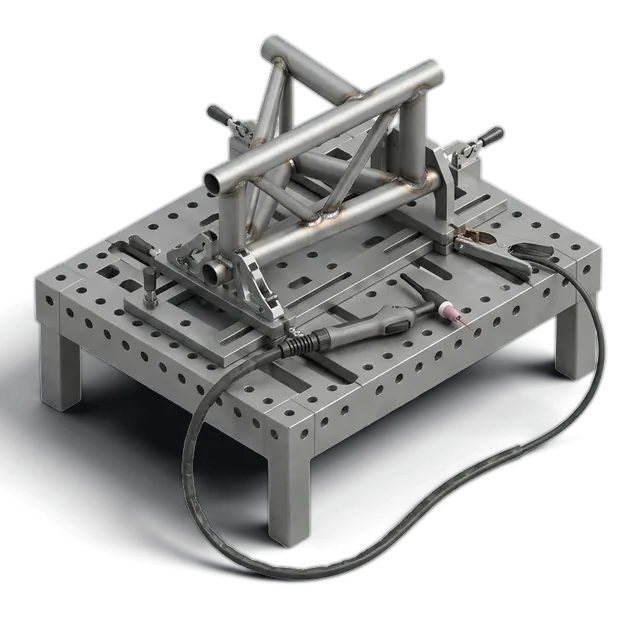
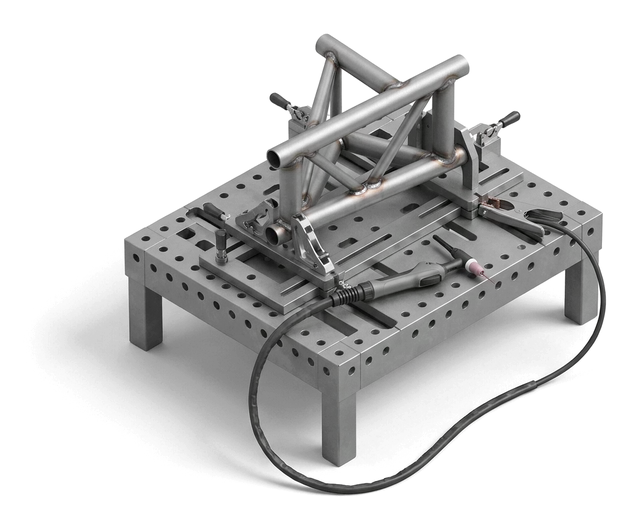
7б: правки /kp и /constructions — колонки строки КП, картинки на белом без плашек, форма чертежа как на главной

diff --git a/components/constructions/stages.ts b/components/constructions/stages.ts
@@ -17,34 +17,34 @@ export const stages: Stage[] = [
     title: "Расчёт и КМД",
     text: "Проверяем чертежи КМ, считаем массу и цену за 2 рабочих дня. После аванса делаем КМД в Tekla Structures и согласуем с вашим проектировщиком.",
     term: "КМД — 3–5 рабочих дней",
-    image: { src: "/pages/kmd.webp", width: 1200, height: 896, variant: 800 },
+    image: { src: "/pages/kmd.webp", width: 1079, height: 765, variant: 800 },
   },
   {
     number: "02",
     title: "Заготовка",
     text: "Ленточнопильная резка балки и швеллера до 1 000 мм, плазменный раскрой листа до 30 мм на ЧПУ, сверловка отверстий на линии без разметки.",
     term: "Металл — со своего склада",
-    image: { src: "/equipment/plasma.webp", width: 1128, height: 838, variant: 640 },
+    image: { src: "/equipment/plasma.webp", width: 1141, height: 841, variant: 640 },
   },
   {
     number: "03",
     title: "Сборка и сварка",
     text: "Собираем узлы в кондукторах, сварка полуавтоматом в среде CO₂. Сварщики аттестованы НАКС, швы проверяем визуально и ультразвуком.",
     term: "ГОСТ 14771‑76, СП 70.13330",
-    image: { src: "/equipment/welding.webp", width: 884, height: 857, variant: 640 },
+    image: { src: "/equipment/welding.webp", width: 1045, height: 866, variant: 640 },
   },
   {
     number: "04",
     title: "Окраска",
     text: "Очистка до степени St3, грунт ГФ‑021 или эмаль ПФ‑115 в цехе при +18 °C. Горячий цинк — у партнёра в Екатеринбурге, срок +5 дней.",
     term: "Толщина покрытия — по паспорту",
-    image: { src: "/equipment/paint.webp", width: 1096, height: 838, variant: 640 },
+    image: { src: "/equipment/paint.webp", width: 1172, height: 829, variant: 640 },
   },
   {
     number: "05",
     title: "Упаковка и отгрузка",
     text: "Маркируем каждую марку по КМД, пакуем на деревянные прокладки и стягиваем лентой. Грузим мостовым краном 10 т, доставка своими длинномерами.",
     term: "Паспорт и сертификаты — с машиной",
-    image: { src: "/pages/pack.webp", width: 1090, height: 842, variant: 800 },
+    image: { src: "/pages/pack.webp", width: 1196, height: 845, variant: 800 },
   },
 ];

diff --git a/components/constructions/DrawingForm.tsx b/components/constructions/DrawingForm.tsx
@@ -14,7 +14,7 @@ type Errors = Partial<Record<"name" | "phone" | "description" | "file", string>>
 const phoneOk = (v: string) => v.replace(/\D/g, "").length >= 10;
 
 /**
- * «Расчёт по чертежу» (паспорт §4): контакты, что за конструкция, файл обязателен.
+ * «Расчёт по чертежу» (паспорт §4): порядок как в форме главной — контакты → «Что нужно» → файл → согласие. Файл обязателен.
  * Отправка — через uploadDrawing в lib/api.ts.
  */
 export function DrawingForm() {
@@ -79,6 +79,19 @@ export function DrawingForm() {
 
   return (
     <form className={s.form} onSubmit={onSubmit} noValidate aria-busy={sending}>
+      <TextField label="Имя" name="name" autoComplete="name" error={errors.name} required />
+      <TextField label="Телефон" name="phone" type="tel" inputMode="tel" autoComplete="tel" placeholder="+7" error={errors.phone} required />
+      <TextField label="Компания или ИНН" name="company" autoComplete="organization" />
+      <TextField label="Почта" name="email" type="email" autoComplete="email" placeholder={`Пришлём расчёт в${NB}PDF`} />
+      <TextArea
+        className={s.wide}
+        label="Что нужно"
+        name="description"
+        rows={3}
+        placeholder={"Фермы ФС‑18, 12 шт, грунт ГФ‑021\nКаркас склада 24×48 м, монтаж свой"}
+        error={errors.description}
+        required
+      />
       <FileDrop
         className={s.wide}
         file={file}
@@ -91,19 +104,6 @@ export function DrawingForm() {
         maxMb={50}
         error={errors.file}
       />
-      <TextArea
-        className={s.wide}
-        label="Что нужно"
-        name="description"
-        rows={3}
-        placeholder={"Фермы ФС‑18, 12 шт, грунт ГФ‑021\nКаркас склада 24×48 м, монтаж свой"}
-        error={errors.description}
-        required
-      />
-      <TextField label="Имя" name="name" autoComplete="name" error={errors.name} required />
-      <TextField label="Телефон" name="phone" type="tel" inputMode="tel" autoComplete="tel" placeholder="+7" error={errors.phone} required />
-      <TextField label="Компания или ИНН" name="company" autoComplete="organization" />
-      <TextField label="Почта" name="email" type="email" autoComplete="email" placeholder={`Пришлём расчёт в${NB}PDF`} />
       <ConsentCheckbox name="consent" className={s.wide} />
       <div className={s.submit}>
         <Button type="submit" disabled={sending}>

diff --git a/components/constructions/Constructions.module.css b/components/constructions/Constructions.module.css
@@ -1,21 +1,19 @@
 /*
  * Металлоконструкции (чат 7). Шапка как у каталога + рендер каркаса во всю ширину сетки;
  * «Что делаем» — первый тип крупно (1–6), остальные 2 × 2 (по 3 колонки); этапы — строками по линиям;
- * форма «Расчёт по чертежу» — типовая раскладка 1–6 + 8–12 на серой полосе.
+ * форма «Расчёт по чертежу» — как на главной: белая полоса, раскладка 1–6 + 8–12.
  */
 .top {
   padding-top: var(--space-6);
 }
-.cover {
-  background: var(--color-surface);
-}
 .cover img {
+  /* рендер с прозрачным фоном — на белом, без плашки; ширина по высоте, ничего не обрезается */
   display: block;
-  width: 100%;
+  width: auto;
+  max-width: 100%;
   max-height: 640px;
   height: auto;
-  object-fit: contain;
-  mix-blend-mode: multiply;
+  margin-inline: auto;
 }
 
 .sectionHead {
@@ -128,14 +126,12 @@
   grid-column: 10 / span 3;
   min-width: 0;
   aspect-ratio: 4 / 3;
-  padding: var(--space-3);
-  background: var(--color-surface);
 }
+/* этапы — вырезанные картинки прямо на белом, без плашки */
 .stageArt img {
   width: 100%;
   height: 100%;
   object-fit: contain;
-  mix-blend-mode: multiply;
 }
 
 /* ---------- Форма ---------- */
@@ -156,7 +152,6 @@
 .form input:not([type="checkbox"]):not([type="file"]) {
   min-height: var(--control-h-md);
   padding-block: var(--space-2);
-  background: var(--color-bg);
 }
 .form textarea {
   min-height: 88px;

diff --git a/app/(pages)/constructions/page.tsx b/app/(pages)/constructions/page.tsx
@@ -51,11 +51,11 @@ export default function ConstructionsPage() {
         <div className={s.cover}>
           <img
             src={asset("/pages/frame.webp")}
-            srcSet={srcSet("/pages/frame.webp", 1156, [800])}
+            srcSet={srcSet("/pages/frame.webp", 1325, [800])}
             sizes="(max-width: 1440px) 100vw, 1360px"
             alt="Каркас производственного здания в три пролёта: колонны, фермы и связи"
-            width={1156}
-            height={757}
+            width={1325}
+            height={780}
             fetchPriority="high"
           />
         </div>
@@ -148,7 +148,7 @@ export default function ConstructionsPage() {
         </Container>
       </section>
 
-      <section id="drawing" className="section band surface" aria-labelledby="drawing-title">
+      <section id="drawing" className="section band" aria-labelledby="drawing-title">
         <Container>
           <Grid className={s.sectionHead}>
             <Col area="head">
@@ -184,7 +184,7 @@ export default function ConstructionsPage() {
                 </div>
               </dl>
               <p className="t-muted">
-                {typo("Большой комплект — пришлите ссылкой на облако в поле «Что нужно» или на почту ")}
+                {typo("Большой комплект — пришлите ссылкой на облако в поле «Что нужно» или на почту")}{" "}
                 <a className="link" href={`mailto:${company.email}`}>
                   {company.email}
                 </a>

diff --git a/components/kp/Kp.module.css b/components/kp/Kp.module.css
@@ -105,7 +105,9 @@
 
 .params {
   grid-area: params;
-  display: flex;
+  display: grid;
+  /* Фиксированные колонки: «Длина/Поставка/Размер» и степпер стоят ровно друг под другом во всех строках */
+  grid-template-columns: 148px 136px;
   gap: var(--space-3);
 }
 .param {
@@ -150,6 +152,7 @@
   box-shadow: inset 0 0 0 1px var(--color-text);
 }
 .select {
+  width: 100%;
   padding: 0 var(--space-2);
   cursor: pointer;
 }
@@ -368,9 +371,7 @@
   grid-column: 1 / span 6;
   width: 100%;
   height: auto;
-  background: var(--color-surface);
-  mix-blend-mode: multiply;
-  filter: grayscale(0.6);
+  /* картинка с прозрачным фоном — прямо на белом, без плашки */
 }
 .emptyText,
 .sentHead {
@@ -429,9 +430,6 @@
       "sum sum sum"
       "comment comment comment";
     gap: var(--space-3);
-  }
-  .params {
-    flex-wrap: wrap;
   }
   .sum {
     grid-template-columns: auto auto;

diff --git a/scripts/cutout-7b.py b/scripts/cutout-7b.py
@@ -1,0 +1,115 @@
+"""Чат 7б: перевырезка картинок /constructions с запасом по краям.
+
+    python3 scripts/cutout-7b.py   (нужен Pillow, numpy, scipy; rembg — только для kmd)
+    python3 scripts/make-variants.py
+
+В чате 6 rembg резал по объекту, поле упиралось в край исходника — тень и угол плиты
+срезались ровной линией, а бетонную плиту каркаса rembg считал тенью и усиливал до чёрного.
+Теперь «обратный multiply»: альфа из яркости (белый фон → прозрачно), цвет пересчитан так,
+что на белом странице картинка совпадает с исходником пиксель в пиксель — без ореола,
+с родной тенью. Края исходника растворяются (FEATHER), кадр — по видимому с запасом.
+Картинки рассчитаны только на белый фон.
+kmd (чертёж на столе) теперь тоже вырезается — остаётся только лист и рулоны, без серого стола.
+"""
+from pathlib import Path
+
+from PIL import Image
+
+from cutout_lib import cutout
+
+PAD = 0.08  # белое поле вокруг исходника, доля ширины
+MARGIN = 0.04  # воздух вокруг объекта в готовом кадре
+WHITE = 248  # светлее — считаем фоном (у исходников фон 249–255)
+FEATHER = 0.03  # растворение у краёв исходника, доля ширины
+
+JOBS = {
+    "docs/assets-src/pages/frame.jpg": "public/pages/frame.webp",
+    "docs/assets-src/pages/pack.jpg": "public/pages/pack.webp",
+    "docs/assets-src/equipment/plasma.jpg": "public/equipment/plasma.webp",
+    "docs/assets-src/equipment/welding.jpg": "public/equipment/welding.webp",
+    "docs/assets-src/equipment/paint.jpg": "public/equipment/paint.webp",
+}
+
+
+def padded(path: str) -> Image.Image:
+    src = Image.open(path).convert("RGB")
+    pad = int(src.width * PAD)
+    canvas = Image.new("RGB", (src.width + 2 * pad, src.height + 2 * pad), (255, 255, 255))
+    canvas.paste(src, (pad, pad))
+    return canvas
+
+
+def unmultiply(path: str) -> Image.Image:
+    import numpy as np
+
+    rgb = np.asarray(Image.open(path).convert("RGB")).astype(np.float32)
+    h, w, _ = rgb.shape
+    alpha = np.clip((WHITE - rgb.min(axis=2)) / WHITE, 0, 1)
+    # растворяем края исходника: объект, упёршийся в край кадра, не обрывается линией
+    f = max(1, int(w * FEATHER))
+    ramp = lambda n: np.minimum(1, np.minimum(np.arange(n), np.arange(n)[::-1]) / f)
+    alpha *= ramp(h)[:, None] * ramp(w)[None, :]
+    if "pack" in path:  # жёлтые ленты и рулетка → серые (монохром, как в чате 7)
+        yellow = (rgb[..., :2].mean(axis=2) - rgb[..., 2]) > 30
+        lum = (rgb @ np.array([0.299, 0.587, 0.114], dtype=np.float32))[..., None]
+        rgb = np.where(yellow[..., None], lum, rgb)
+    safe = np.maximum(alpha, 1e-3)[..., None]
+    color = np.clip(255 - (255 - rgb) / safe, 0, 255)
+    out = np.dstack([color, alpha * 255]).astype(np.uint8)
+    img = Image.fromarray(out, "RGBA")
+    pad = int(w * PAD)
+    canvas = Image.new("RGBA", (w + 2 * pad, h + 2 * pad), (0, 0, 0, 0))
+    canvas.paste(img, (pad, pad))
+    return canvas
+
+
+for src, dst in JOBS.items():
+    img = unmultiply(src)
+    # рамка по видимому (объект + тень), чтобы не срезать тень
+    vx0, vy0, vx1, vy1 = img.getchannel("A").point(lambda v: 255 if v > 6 else 0).getbbox()
+    pad = int(img.width * MARGIN)
+    img = img.crop((max(0, vx0 - pad), max(0, vy0 - pad), min(img.width, vx1 + pad), min(img.height, vy1 + pad)))
+    if img.width > 1600:
+        img = img.resize((1600, round(img.height * 1600 / img.width)), Image.LANCZOS)
+    img.save(dst, "WEBP", quality=82, method=6, alpha_quality=90)
+    print(dst, img.size, f"{Path(dst).stat().st_size // 1024} КБ")
+
+
+# kmd: rembg оставляет серый стол с ровными срезами по краю кадра. Берём только лист с рулонами:
+# светлее стола (стол ≈ 216, бумага ≥ 235) → крупнейшая область внутри → закрыть линии чертежа
+# → мягкая тень под листом.
+def kmd_paper() -> None:
+    import numpy as np
+    from PIL import ImageFilter
+    from scipy import ndimage
+
+    src = padded("docs/assets-src/pages/kmd.jpg")
+    gray = np.array(src.convert("L"))
+    _, (x0, y0, x1, y1) = cutout(src)  # рамка стола (rembg) — бумага только внутри неё
+    light = gray > 232
+    inside = np.zeros_like(light)
+    inside[y0 + 4 : y1 - 4, x0 + 4 : x1 - 4] = True
+    light &= inside
+    light = ndimage.binary_closing(light, iterations=6)
+    labels, n = ndimage.label(light)
+    sizes = ndimage.sum(light, labels, range(1, n + 1))
+    paper = labels == (int(np.argmax(sizes)) + 1)
+    paper = ndimage.binary_fill_holes(paper)
+    paper = ndimage.binary_opening(paper, iterations=3)
+    mask = Image.fromarray((paper * 255).astype("uint8")).filter(ImageFilter.GaussianBlur(1.2))
+
+    shadow = mask.filter(ImageFilter.GaussianBlur(14)).point(lambda v: int(v * 0.22))
+    out = Image.new("RGBA", src.size, (14, 16, 19, 0))
+    out.putalpha(Image.new("L", src.size, 0))
+    out.paste((14, 16, 19, 255), (8, 14), shadow)  # тень чуть ниже и правее
+    obj = src.copy()
+    obj.putalpha(mask)
+    out.alpha_composite(obj)
+    vx0, vy0, vx1, vy1 = out.getchannel("A").point(lambda v: 255 if v > 6 else 0).getbbox()
+    pad = int(out.width * MARGIN)
+    out = out.crop((vx0 - pad, vy0 - pad, vx1 + pad, vy1 + pad))
+    out.save("public/pages/kmd.webp", "WEBP", quality=82, method=6, alpha_quality=90)
+    print("public/pages/kmd.webp", out.size)
+
+
+kmd_paper()

diff --git a/docs/PROGRESS.md b/docs/PROGRESS.md
@@ -21,6 +21,7 @@
 | 6б | Правки каталога и карточки: подсказки поиска, избранное, счётчик и уведомление КП, цена, поля | готово |
 | 7 | → вошёл в 6 | — |
 | 8 | Список для КП + Металлоконструкции (сделано в чате 7) | готово |
+| 7б | Правки /kp и /constructions по ревью | готово |
 | 9 | О производстве + Контакты + Политика + 404 | — |
 | 10 | Вход + Личный кабинет | — |
 | 11 | Проверка, Lighthouse → `HANDOFF.md` | — |
@@ -29,13 +30,13 @@
 - Главная готова (hero, каталог, фура, панели, карта отгрузок, видео склада, портфолио Б, форма). Деплой: https://d1trepes.github.io/demo-metal/
 - Каталог и карточки готовы: `/catalog/`, `/catalog/<slug>/`, 70 карточек `/product/<slug>/` с калькулятором. Все функции API — в `lib/api.ts` и `docs/HANDOFF.md`, сторы — `lib/stores/`.
 - Картинки брифа «чаты 6–9» обработаны: `public/ends/`, `public/equipment/`, `public/pages/` (исходники — `docs/assets-src/`).
-- `/kp/` и `/constructions/` готовы (чат 7). Следующий чат — **7б** (правки по ревью, список в `docs/NEXT.md`), потом **8**: О производстве + Контакты + Политика + 404 (паспорт §11 п. 9, план в `docs/NEXT.md`).
+- `/kp/` и `/constructions/` готовы (чат 7). Правки 7б внесены. Следующий чат — **8**: О производстве + Контакты + Политика + 404 (паспорт §11 п. 9, план в `docs/NEXT.md`).
 - Старый журнал — `docs/archive/PROGRESS-log.md` (не читать без нужды).
 
 ## Открытые проблемы
 - Карта: перетаскивание пальцем проверено только эмуляцией; 60 к/с измерено в headless Chrome на 1440.
 - `/about/`, `/contacts/`, `/account/` (в т. ч. «Мои запросы» с экрана «Запрос отправлен»), `/privacy` — 404 до чатов 8–9.
-- Картинки: все пришли в 1200 px (бриф просил от 2000) — для сайта хватает, крупнее 1200 не показываем. `pages/base` — кривая надпись на вывеске, мелкие люди, жёлтый кран; `pages/pack` — ленты обесцвечены в чате 7.
+- Картинки: все пришли в 1200 px (бриф просил от 2000) — для сайта хватает, крупнее 1200 не показываем. `pages/base` — кривая надпись на вывеске, мелкие люди, жёлтый кран; `pages/pack` — ленты обесцвечены (`scripts/cutout-7b.py`). Картинки /constructions вырезаны «обратным multiply» — рассчитаны только на белый фон.
 - Контуры регионов РФ — набор 2013 г. (83 субъекта).
 
 ## Журнал (кратко, одна запись на чат)
@@ -50,3 +51,4 @@
 - 01.11 — 6: 23 картинки брифа обработаны (торцы без вырезки, multiply); `data/products.json` 70 позиций (`scripts/gen-products.py`), данные кабинета; `lib/api.ts` — каталог, КП, ИНН, чертёж, вход, заказы, документы; `lib/calc.ts`, `lib/catalog.ts`; сторы КП/избранное/вход; каталог с фильтрами и видом «плитка/таблица», карточка с галереей, калькулятором (штуки/тонны/резка), ТТХ, похожими; счётчик КП в шапке.
 - 01.11 — 6б: поиск в шапке с подсказками (`getSearchSuggestions`, категории + позиции + «Все результаты», ↑↓/Enter/Esc, на телефоне во весь экран порталом); `FavoriteToggle` в плитке, таблице и калькуляторе (старый `FavoriteButton` удалён); счётчик КП — прямоугольник на углу кнопки, `KpToast` из-под шапки 4 с (событие `lastAdded` в сторе, не сохраняется); цена в карточке — плашкой Condensed; токен `--field-shift` — текст в полях по центру (≤ 0,5 px).
 - 01.11 — 7: `/kp/` — строки позиций (длина, количество, комментарий, масса и сумма), реквизиты по ИНН, контакт, доставка (адреса из кабинета), сводка справа липкая с «Запросить КП» и статусами, экраны «Список пуст» и «Запрос отправлен» (список очищается); `/constructions/` — шапка с фактами, рендер каркаса, «Что делаем» (5 типов, первый крупно), этапы 01–05 строками с картинками, форма «Расчёт по чертежу» (файл обязателен, до 50 МБ). Общие `FileDrop`, `SelectField`, `callbackText`. «Все позиции: …» в карточке прижата к правому краю сетки.
+- 01.11 — 7б: /kp — пустой список без плашки и grayscale, параметры строки в фиксированных колонках (148 + 136 px); /constructions — каркас и этапы на белом без плашек, перевырезка `scripts/cutout-7b.py` (альфа из яркости, края растворяются, kmd — только лист без стола); форма чертежа на белой полосе, порядок как на главной; пробел перед почтой.

diff --git a/docs/NEXT.md b/docs/NEXT.md
@@ -1,14 +1,4 @@
 # Следующие чаты
 
-## 7б — правки /kp и /constructions по ревью (делать ДО чата 8)
-Файлы: `components/kp/Kp.module.css`, `KpView.tsx`, `KpItemRow.tsx`, `components/constructions/*`, `app/(pages)/constructions/page.tsx`, при нужде `docs/assets-src/pages|equipment`.
-1. **Пустой список КП**: поддон без серой плашки — на белом, без `mix-blend-mode` и `grayscale` (картинка с прозрачным фоном).
-2. **Строка позиции**: колонки «Длина / Поставка / Размер» и «Хлысты / Метры / Листы» не совпадают между строками. Дать параметрам фиксированную ширину (колонки сетки строки), чтобы степпер и подписи стояли ровно под друг другом во всех строках.
-3. **Рендер каркаса** на /constructions выглядит обрезанным (тень срезана краем, серая плашка с multiply). Проверить альфу исходника `pages/frame`, переобрезать с запасом; показывать на белом без плашки (или сделать нормальную подложку во всю ширину). Убедиться, что ничего не обрезает `max-height`/`object-fit`.
-4. **Картинки этапов** (kmd, plasma, welding, paint, pack) — то же ощущение обрезки: у `kmd` свой светлый прямоугольник фона внутри серой плашки. Вырезать фон у kmd, этапы показывать на белом без плашки (или все одинаково, без видимых краёв исходника).
-5. **Форма «Расчёт по чертежу»**: поля как во всём сайте (сейчас белые — убрать `background: var(--color-bg)`, взять стиль формы главной). Порядок как на главной: сначала имя, телефон, компания, почта → «Что нужно» → файл внизу → согласие → кнопка.
-6. Пробел в «на почту zakaz@…» (сейчас слиплось).
-7. **«Мои запросы»** — решение пользователя (01.11): кнопку оставляем как есть, в 7б не трогаем; заработает в чате 10 вместе с `/account/requests/`.
-
 ## 8 — О производстве + Контакты + Политика + 404 (паспорт §11 п. 9)
-См. `docs/PASSPORT.md` §4. Картинки: `public/pages/base.webp` (первый экран /about; на вывеске кривая надпись, жёлтый кран — решить: обесцветить или перегенерировать), `public/equipment/*` (оборудование: saw, plasma, drill, welding, paint, crane), `public/pages/bent.webp` (404). Факты цеха — как на `/constructions/` (4 200 м², до 180 т/мес, НАКС). Формы — `components/ui/Field.tsx`, `FileDrop.tsx`.
+См. `docs/PASSPORT.md` §4. Картинки: `public/pages/base.webp` (первый экран /about; на вывеске кривая надпись, жёлтый кран — решить: обесцветить или перегенерировать), `public/equipment/*` (оборудование: saw, plasma, drill, welding, paint, crane; plasma/welding/paint перевырезаны в 7б на белый фон — saw/drill/crane при нужде прогнать тем же `scripts/cutout-7b.py`), `public/pages/bent.webp` (404). Факты цеха — как на `/constructions/` (4 200 м², до 180 т/мес, НАКС). Формы — `components/ui/Field.tsx`, `FileDrop.tsx`.
